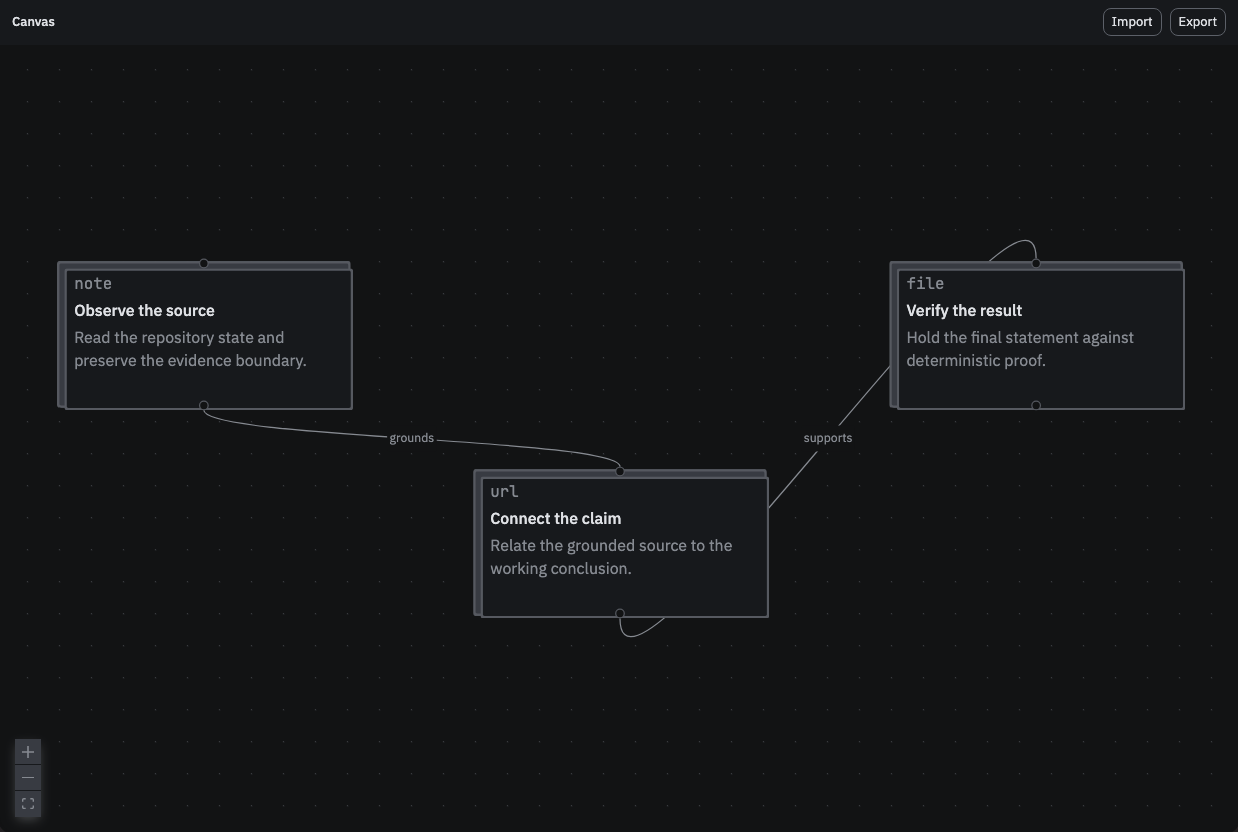
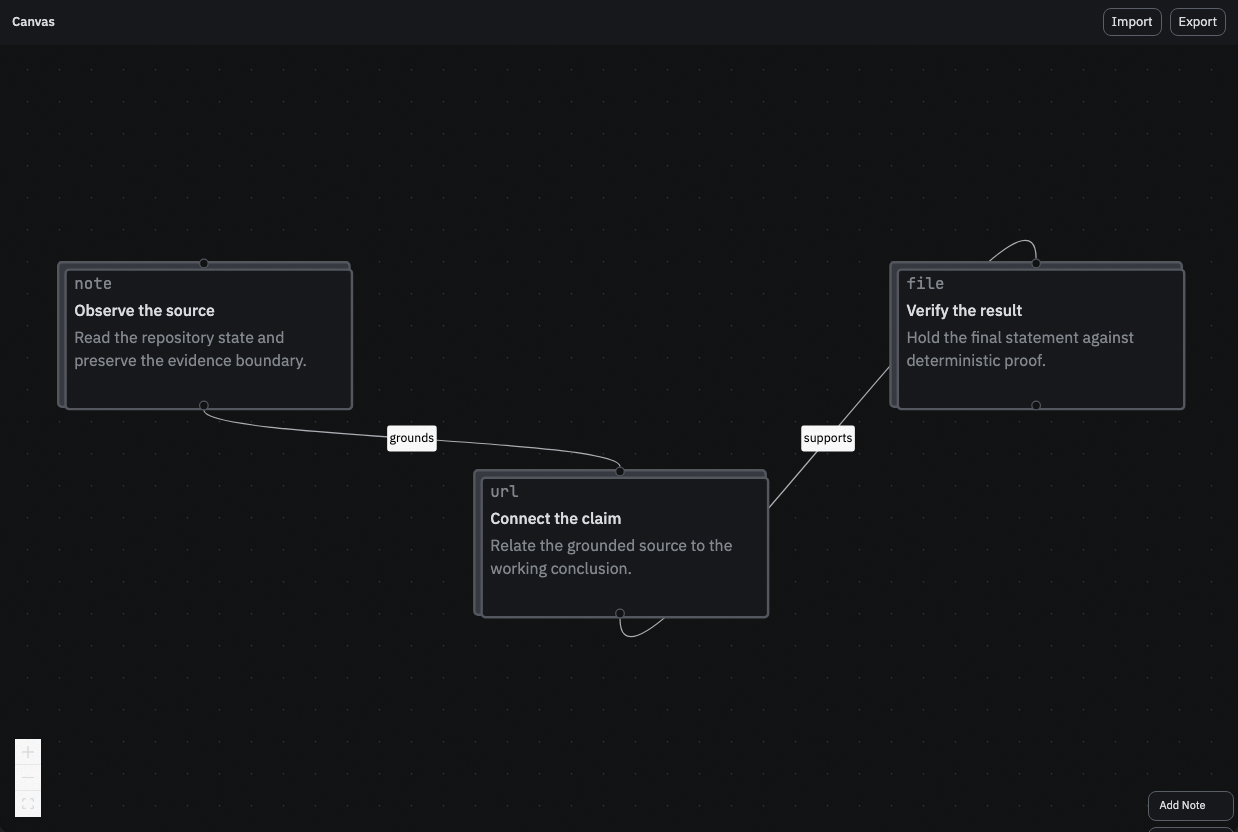
test(console): align coloration visual oracles

diff --git a/apps/console/e2e/appearance.spec.ts b/apps/console/e2e/appearance.spec.ts
@@ -29,13 +29,23 @@ async function resetStub(request: import('@playwright/test').APIRequestContext) 
 }
 
 async function waitForThreadChrome(page: import('@playwright/test').Page) {
-  await expect.poll(async () => {
-    const empty = await page.locator('[data-chat-empty-state]').boundingBox();
-    const composer = await page.locator('[data-composer-zone]').boundingBox();
-    if (!empty || !composer) return false;
-    const gap = Math.round(composer.y - (empty.y + empty.height));
-    return gap >= 0 && gap < 80;
-  }, { timeout: 30_000 }).toBe(true);
+  let lastGap: number | null = null;
+  let stableSamples = 0;
+  try {
+    await expect.poll(async () => {
+      const empty = await page.locator('[data-chat-empty-state]').boundingBox();
+      const composer = await page.locator('[data-composer-zone]').boundingBox();
+      if (!empty || !composer) return false;
+      const gap = Math.round(composer.y - (empty.y + empty.height));
+      stableSamples = lastGap === gap ? stableSamples + 1 : 0;
+      lastGap = gap;
+      return gap >= 0 && stableSamples >= 1;
+    }, { timeout: 30_000 }).toBe(true);
+  } catch (error) {
+    throw new Error(`Thread chrome did not stabilize without overlap; last measured gap was ${String(lastGap)}px.`, {
+      cause: error,
+    });
+  }
 }
 
 async function openAppearance(page: import('@playwright/test').Page) {
@@ -132,7 +142,8 @@ test.describe('appearance surface', () => {
     );
     const underline = page.locator('[role="tab"][aria-selected="true"] .h-ij-underline');
     await expect(underline).toHaveCSS('height', '4px');
-    await expect(underline).toHaveCSS('background-color', 'rgb(53, 116, 240)');
+    const accent = await resolveToken(page, '--ij-accent');
+    await expect(underline).toHaveCSS('background-color', accent);
     const running = await page.evaluate(() => {
       const probe = document.createElement('div');
       probe.style.backgroundColor = 'var(--ij-running)';

diff --git a/apps/console/e2e/fork-pages.spec.ts b/apps/console/e2e/fork-pages.spec.ts
@@ -7,7 +7,9 @@ test.describe('fork page architecture', () => {
     await expect(
       page.getByRole('button', { name: 'GitHub login is not configured' }),
     ).toBeDisabled();
-    await expect(page.getByText('There is no shared default tenant')).toBeVisible();
+    await expect(
+      page.getByText('Login is unavailable. The control is disabled so it cannot start a broken authorization flow.'),
+    ).toBeVisible();
   });
 
   test('signed-out onboarding, settings, and admin pages name their boundary', async ({ page }) => {
@@ -18,7 +20,9 @@ test.describe('fork page architecture', () => {
     await page.goto('/settings');
     await expect(page.getByRole('heading', { name: 'CommonPlace settings' })).toBeVisible();
     await expect(
-      page.getByText('These settings configure identity and presentation.'),
+      page.getByText(
+        'These settings configure identity, presentation, and desktop extensions. Model routing stays with the Harness.',
+      ),
     ).toBeVisible();
 
     await page.goto('/admin');
